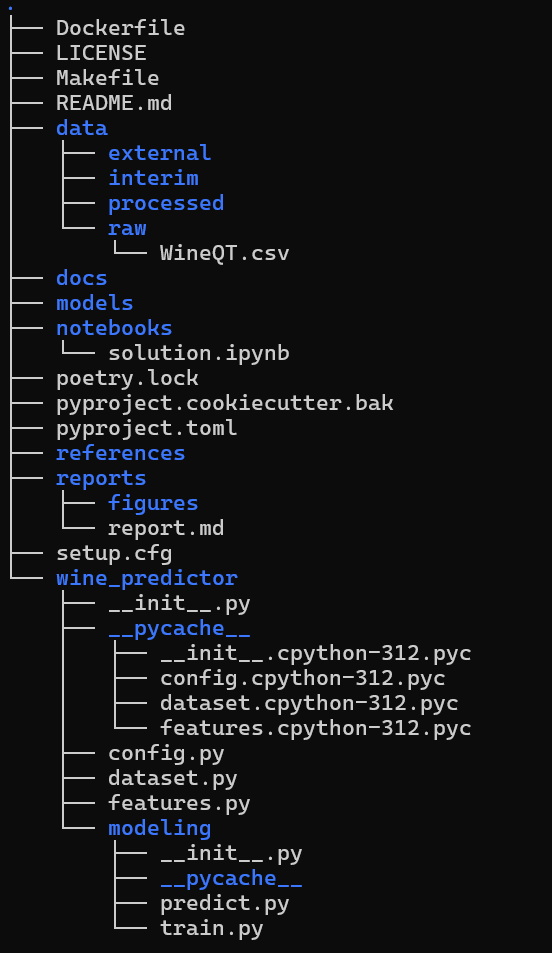
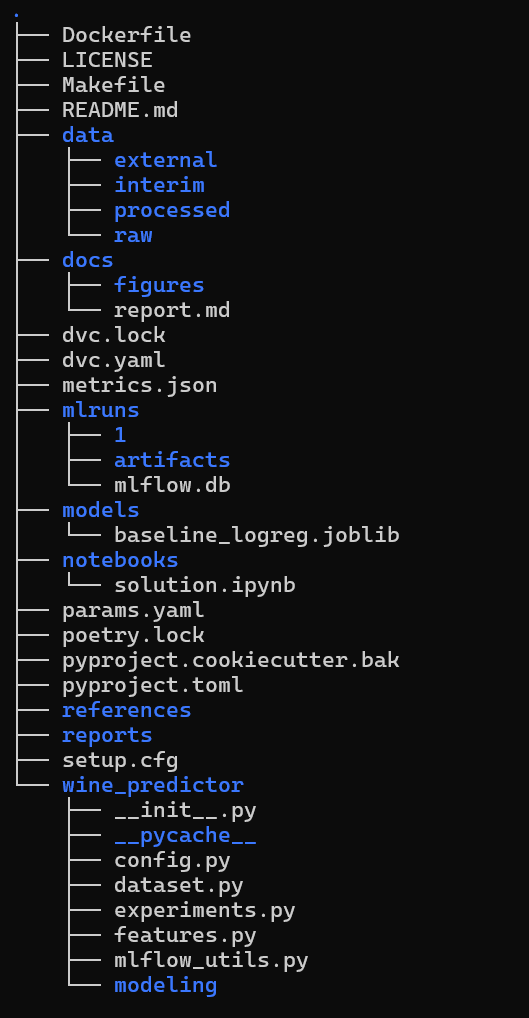
Updated README and report

Changed region(s): [[0.0, 0.0, 0.8469, 1.0], [0.6352, 0.3956, 0.6957, 0.4565], [0.4537, 0.2434, 0.5142, 0.2739]]

diff --git a/docs/report.md b/docs/report.md
@@ -1,9 +1,9 @@
-# HW 2
+# HW 3
 
 ## 1. Overview
 
-The point of HW 2 is setting DVC-based data and model versioning + reproducibility.
-Also, from HW 1 we inherit:
+The point of HW 3 is setting up MLFlow-based logging and experiment tracking for our existing project.
+Also, from previous stages we inherit:
 
 - Cookiecutter for the overall template
 - Poetry for dependencies, convenient setup with pyproject
@@ -12,6 +12,12 @@ Also, from HW 1 we inherit:
 - Jupyter notebook solution using that package
 - Docker reproducibility
 - Git usage: starting out with pushing changes to `develop` branch, testing docker on `feature/docker`, finally pushing to `main`
+- DVC-based data and model versioning
+
+In this HW we add:
+- MLFLOW experiment tracking
+- Utils for running a grid of experiments with different models and hyperparams for comparison
+- MLFlow logging: metrics, parameters and artifacts
 
 #### A few notes on the specifics:
 - We use Wine Quality prediction as an example
@@ -21,14 +27,15 @@ Also, from HW 1 we inherit:
 - We don't actually make and plots or figures, but keep those folders for the reason mentioned above
 - Detailed tool configs can be found in the corresponding files (mainly `pyproject.toml`)
 - Why DVC? Seemed versatile and simple enough. I like the parallels between DVC and Git.
+- Why MLFlow? I've already used W&B and TensorBoard. MLFlow was something I've been wanting to try for a while.
 
 
-## 2. Project Structure
+## 2. Project structure
 
 
 ![Tree](./figures/tree.png)
 
-## 3. Dependency Management
+## 3. Dependency management
 
 ### 3.1 Poetry
 
@@ -64,7 +71,7 @@ poetry install
 
 ---
 
-## 4. Formatters, Linters, Pre-commit hooks
+## 4. Formatters, linters, pre-commit hooks
 
 
 * Black – code formatter
@@ -85,7 +92,7 @@ poetry run pre-commit run --all-files
 ![Hooks](./figures/hooks.png)
 
 
-## 5. Actual ML Solution
+## 5. Actual ML solution
 
 ### 5.1 Implementation
 Won't be going into detail - it's essentially a basic SKLearn pipeline with a Logistic Regression classifier. Training a great ML model is not the point of this homework
@@ -95,7 +102,7 @@ Won't be going into detail - it's essentially a basic SKLearn pipeline with a Lo
 Solution in `notebooks/solution.ipynb` uses the package code to run training and inference.
 
 
-## 6. Jupyter Setup
+## 6. Jupyter setup
 
 We use Jupyter to showcase usage and register a dedicated kernel:
 
@@ -163,7 +170,7 @@ poetry run dvc stage add -f -n train \
   poetry run python -m wine_predictor.modeling.train
 ```
 
-## 11. Reproducing experiments and tracking metrics
+## 11. Reproducing experiments and tracking metrics with DVC
 To inspect and compare metrics:
 ```bash
 poetry run dvc metrics show
@@ -171,15 +178,147 @@ poetry run dvc metrics diff HEAD~1
 ```
 ![DVC](./figures/dvc_diff.png)
 
+## 12. MLFlow setup and integration
+We use MLFlow to track experiments for reasons outlined above.
 
-## 12. Reproducing everything
+### 12.1 Setup
+MLFlow is added as a project dependency via Poetry:
+```bash
+poetry add mlflow
+```
+For convenience, we isolate all MLFlow helpers and utils in `wine_predictor/mlflow_utils.py`
+
+### 12.2 Database and artifacts
+MLFlow is configured to run on top of a local SQLite DB and a local artifact directory:
+Tracking DB URI:
+sqlite:///mlruns/mlflow.db
+Artifact location:
+mlruns/artifacts
+
+`configure_mlflow` handles basic configuration:
+```python
+# wine_predictor/mlflow_utils.py
+
+DEFAULT_EXPERIMENT_NAME = "wine_quality_hw3"
+DEFAULT_TRACKING_URI = "sqlite:///mlruns/mlflow.db"
+
+def configure_mlflow(
+    tracking_uri: str = DEFAULT_TRACKING_URI,
+    experiment_name: str = DEFAULT_EXPERIMENT_NAME,
+) -> None:
+    mlflow.set_tracking_uri(tracking_uri)
+    mlflow.set_experiment(experiment_name)
+```
+All runs are logged under a single MLFlow experiment.
+
+### 12.3 Authentication
+Since we're running a local-only MLFlow setup and UI is bound to localhost, we don't really have any traditional authentication:
+```python
+poetry run mlflow ui \
+  --backend-store-uri sqlite:///mlruns/mlflow.db \
+  --default-artifact-root mlruns/artifacts \
+  --host 127.0.0.1 \
+  --port 5000
+```
+By default, this means the UI can only be accessed from the local machine, so access comes down to local users' rights configuration. If we really wanted to emulate some kind of access restriction, we could do
+```bash
+chmod -R go-rwx mlruns
+```
+to make it so that only the current OS user can read/write tracking data.
+
+### 12.4 Experiments
+To create a demo, we use a simple grid of experiments with params defined in `params.yaml`:
+```yaml
+model:
+  type: logreg          # logreg, random_forest, gradient_boosting possible
+  max_iter: 1000
+  C: 1.0
+  multi_class: auto
+
+  # shared
+  test_size: 0.2
+  random_state: 42
+
+  # RandomForest-only
+  n_estimators: 100
+  max_depth: null
+
+  # GradientBoosting-only
+  gb_learning_rate: 0.1
+  gb_n_estimators: 100
+```
+
+### 12.5 Code integration
+We use:
+
+- `@training_run(...)` – decorator that wraps a training function into an MLflow run
+
+- `mlflow_run(...)` – context manager for the decorator
+
+`@training_run`:
+
+- Configures MLFlow (URI + experiment name)
+
+- Starts and stops runs
+
+- Logs params, metrics, artifacts, model and tags
+
+The decorator is defined in `wine_predictor/mlflow_utils.py` and is used in `wine_predictor/modeling/train.py`. The updated training code uses the new decorators and builds a trainining pipeline with the provided params.
+
+### 12.6 Launching a single run
+To launch a single run with `params.yaml`:
+```bash
+poetry run python -m wine_predictor.modeling.train
+```
+
+### 12.7 Launching a grid of experiments
+To launch an entire grid of training runs:
+```bash
+poetry run python -m wine_predictor.experiments
+```
+All the params that define the grid can be found in `wine_predictor/experiments.py`
+
+## 13. MLFlow usage
+To run the UI:
+```bash
+poetry run mlflow ui \
+  --backend-store-uri sqlite:///mlruns/mlflow.db \
+  --default-artifact-root mlruns/artifacts \
+  --host 127.0.0.1 \
+  --port 5000
+```
+Once you've selected the experiment, you should see of all your logged runs:
+![MLFlow UI list](./figures/mlflow_list.png)
+Built-in functionality allows you to search and filter by metrics, values, time created, state. You can also sort and open additional columns with all of your tracked params.  For example, you could:
+Filter runs by tags:
+
+- `tags.hw = "3"`
+- `tags.experiment = "grid"`
+- `tags.algorithm = "random_forest"`
+
+Sort by:
+`metrics.accuracy DESC`
+
+Select several runs and click `Compare` to see:
+
+- parallel coordinate plots
+- metric vs parameter plots (e.g. accuracy vs C)
+- individual run details (artifacts, params, tags)
+
+MLFlow also makes it easy to visualise key metrics:
+![MLFlow UI visual](./figures/mlflow_vis.png)
+Clicking on a specific run will allow you to see its details and params, as well as information on run artifacts:
+![MLFLow UI single](./figures/mlflow_single.png)
+
+
+## 14. Reproducing everything
 
 
 ```bash
 # 1. Clone
 git clone https://github.com/RageAgainstTheAssembly/EPML-ITMO
 cd EPML-ITMO
-git checkout main_hw2
+git checkout main_hw3
 
 # 2. Poetry
 pip install --user poetry
@@ -192,21 +331,16 @@ poetry install
 poetry run pre-commit install
 poetry run pre-commit run --all-files
 
-# 5. Get data and model artifacts from DVC remote (this assumes you have access to the remote)
-poetry run dvc remote modify local_remote url <insert your remote path>
-poetry run dvc pull
+# 5. Run a single experiment
+poetry run python -m wine_predictor.modeling.train
 
-# 6. Reproduce the training pipeline from DVC
-poetry run dvc repro
+# 6. Run a grid of experiments
+poetry run python -m wine_predictor.experiments
 
-# 7. Compare versions
-poetry run dvc metrics show
-poetry run dvc metrics diff
-
-# 8. (Optional) Start JupyterLab
-poetry run jupyter lab
-
-# 9. (Optional) Docker
-docker build -t epml-wine:dev .
-docker run --rm epml-wine:dev
+# 7. See results in MLFlow UI
+poetry run mlflow ui \
+  --backend-store-uri sqlite:///mlruns/mlflow.db \
+  --default-artifact-root mlruns/artifacts \
+  --host 127.0.0.1 \
+  --port 5000
 ```

diff --git a/README.md b/README.md
@@ -1,7 +1,7 @@
 
-# EPML HW 2
+# EPML HW 3
 
-This is just a brief README, you can find the full report in `docs/report.md`. Note that versioning mostly concerns sections 8-12.
+This is just a brief README, you can find the full report in `docs/report.md`. Note that experiment tracking mostly concerns sections 12-13.
 
 Perfectly reproducible on my machine, hoping that's a good sign
 
@@ -13,6 +13,7 @@ Perfectly reproducible on my machine, hoping that's a good sign
 - Docker reproducibility
 - DVC data, model, hyperparams and metrics tracking
 - DVC experiment reproducibility
+- MLFlow experiment tracking
 
 
 ## Basic Quick Start (from HW 1)
